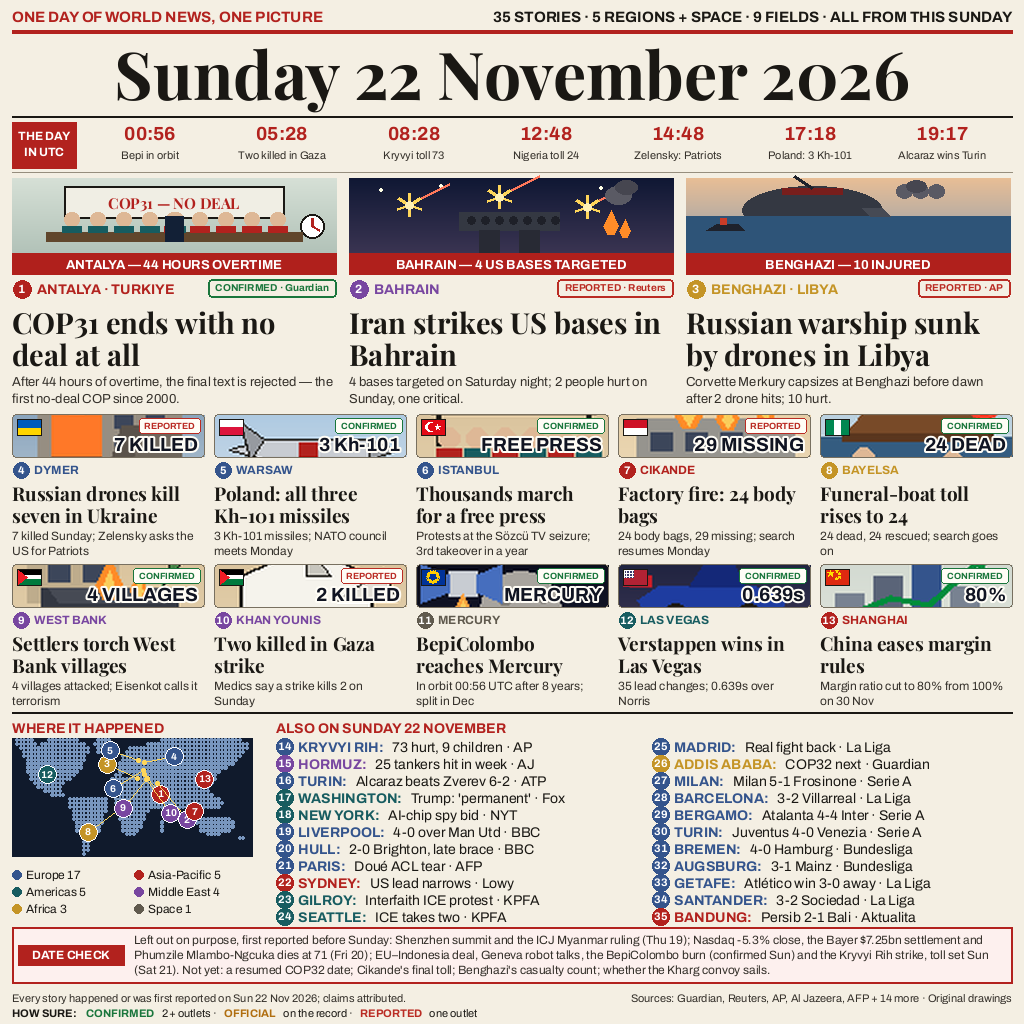
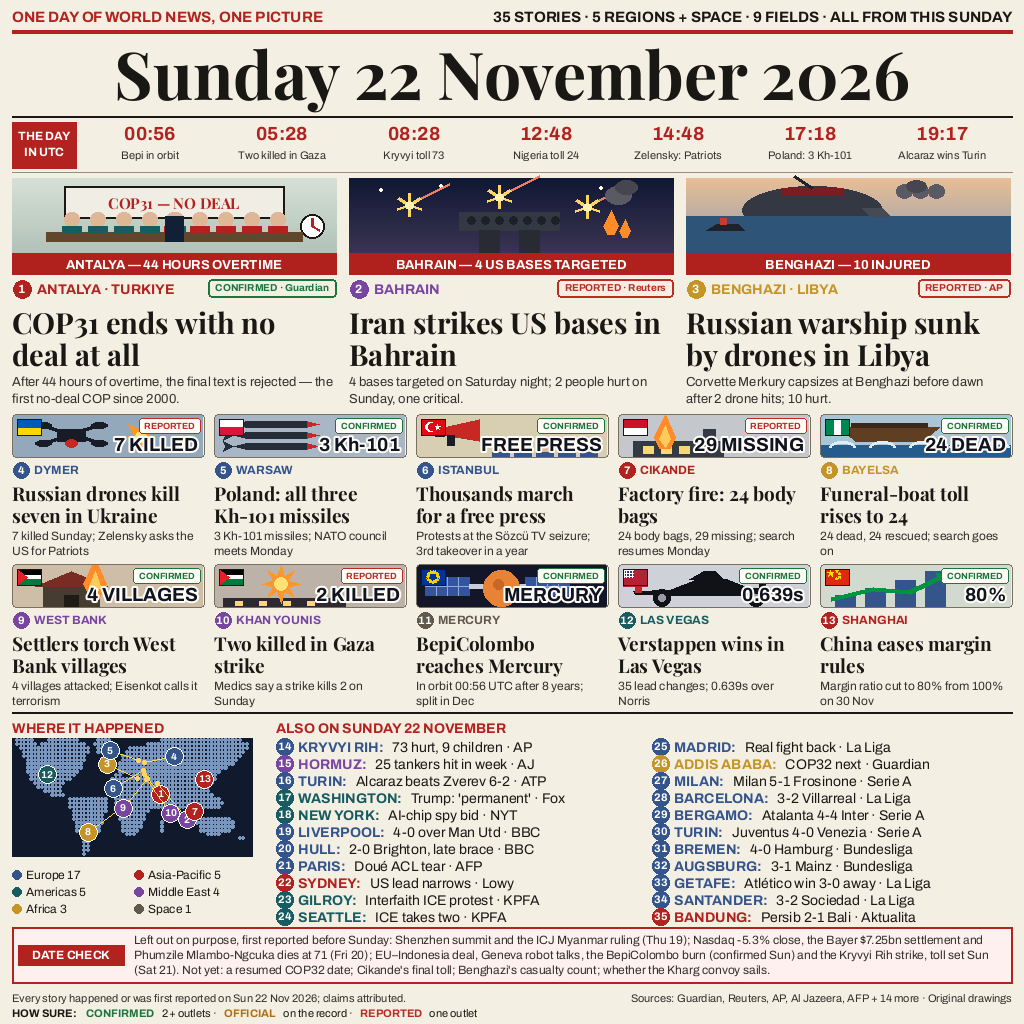
Card strips redrawn as single dominant pictograms at strip scale (glance-test verified)

diff --git a/draw.py b/draw.py
@@ -757,6 +757,168 @@ def tally_bar(d, y, counts, total, x0=76, x1=560, hgt=13):
     return y + hgt
 
 
+# ------------------------------------------------- strip pictograms (v7)
+# One dominant symbol per card, drawn AT strip size (190x42): big simple
+# shapes, max 2-3 elements, high contrast. A reader who has not seen the
+# headline should be able to guess the topic from the strip alone.
+
+def _flame(d, cx, cy, s, outer=(232, 110, 30), inner=(250, 196, 60)):
+    d.polygon([(cx, cy - s), (cx + s * 0.62, cy + s * 0.35),
+               (cx + s * 0.3, cy + s * 0.85), (cx - s * 0.3, cy + s * 0.85),
+               (cx - s * 0.62, cy + s * 0.35)], fill=outer)
+    d.polygon([(cx, cy - s * 0.45), (cx + s * 0.34, cy + s * 0.3),
+               (cx + s * 0.16, cy + s * 0.8), (cx - s * 0.16, cy + s * 0.8),
+               (cx - s * 0.34, cy + s * 0.3)], fill=inner)
+
+
+def _burst(d, cx, cy, r, col=(255, 150, 40), core=(255, 226, 120)):
+    import math
+    pts = []
+    for k in range(16):
+        ang = math.pi * k / 8
+        rr = r if k % 2 == 0 else r * 0.45
+        pts.append((cx + rr * math.cos(ang), cy + rr * math.sin(ang)))
+    d.polygon(pts, fill=col)
+    d.ellipse([cx - r * 0.32, cy - r * 0.32, cx + r * 0.32, cy + r * 0.32],
+              fill=core)
+
+
+def art_dymer(d, x, y, w, h):
+    d.rectangle([x, y, x + w, y + h], fill=(148, 168, 188))
+    # one big quadcopter drone, left-centre
+    ink = (24, 28, 38)
+    for (rx, ry) in ((x + 22, y + 7), (x + 78, y + 7), (x + 22, y + 25),
+                     (x + 78, y + 25)):
+        d.line([rx + 8, ry + 3, x + 58, y + 19], fill=ink, width=4)
+        d.ellipse([rx, ry, rx + 16, ry + 6], fill=ink)
+    d.rectangle([x + 44, y + 14, x + 72, y + 26], fill=ink)
+    d.ellipse([x + 52, y + 24, x + 64, y + 32], fill=(200, 40, 36))
+    _burst(d, x + 128, y + 22, 17)
+
+
+def art_warsaw(d, x, y, w, h):
+    d.rectangle([x, y, x + w, y + h], fill=(168, 182, 198))
+    # THREE big missiles in a row -- the count is the story
+    for j, my in enumerate((6, 17, 28)):
+        d.polygon([(x + 18, y + my + 3), (x + 30, y + my), (x + 92, y + my),
+                   (x + 104, y + my + 3), (x + 92, y + my + 6),
+                   (x + 30, y + my + 6)], fill=(38, 44, 56))
+        d.polygon([(x + 92, y + my), (x + 104, y + my + 3),
+                   (x + 92, y + my + 6)], fill=(200, 40, 36))
+        d.polygon([(x + 18, y + my + 3), (x + 8, y + my - 2),
+                   (x + 10, y + my + 3), (x + 8, y + my + 8)],
+                  fill=(38, 44, 56))
+
+
+def art_istanbul(d, x, y, w, h):
+    d.rectangle([x, y, x + w, y + h], fill=(216, 206, 178))
+    # big megaphone + a row of big crowd heads
+    d.polygon([(x + 26, y + 12), (x + 62, y + 4), (x + 62, y + 26),
+               (x + 26, y + 20)], fill=(200, 40, 36))
+    d.rectangle([x + 18, y + 11, x + 27, y + 21], fill=(24, 28, 38))
+    d.rectangle([x + 30, y + 20, x + 37, y + 30], fill=(24, 28, 38))
+    for hx in (76, 98, 120, 142, 164):
+        d.ellipse([x + hx, y + 24, x + hx + 15, y + 39],
+                  fill=(222, 184, 150), outline=(24, 28, 38), width=1)
+        d.rectangle([x + hx - 1, y + 37, x + hx + 16, y + 42],
+                    fill=(52, 84, 140))
+
+
+def art_cikande(d, x, y, w, h):
+    d.rectangle([x, y, x + w, y + h], fill=(196, 200, 204))
+    # one simple factory + a BIG flame on top
+    d.rectangle([x + 14, y + 26, x + 104, y + 42], fill=(52, 58, 68))
+    d.rectangle([x + 84, y + 14, x + 96, y + 42], fill=(52, 58, 68))
+    for wx in (24, 42, 60):
+        d.rectangle([x + wx, y + 31, x + wx + 10, y + 38],
+                    fill=(250, 214, 120))
+    _flame(d, x + 46, y + 16, 17)
+
+
+def art_bayelsa(d, x, y, w, h):
+    d.rectangle([x, y, x + w, y + h], fill=(170, 198, 214))
+    # one big capsized hull over waves
+    d.polygon([(x + 18, y + 12), (x + 118, y + 12), (x + 102, y + 26),
+               (x + 34, y + 26)], fill=(96, 62, 34))
+    d.rectangle([x + 30, y + 8, x + 106, y + 12], fill=(60, 40, 22))
+    d.rectangle([x, y + 30, x + w, y + h], fill=(38, 92, 140))
+    for wx in (8, 48, 88, 128, 162):
+        d.arc([x + wx, y + 26, x + wx + 26, y + 38], 180, 360,
+              fill=(220, 238, 250), width=3)
+
+
+def art_westbank(d, x, y, w, h):
+    d.rectangle([x, y, x + w, y + h], fill=(206, 190, 168))
+    # one big house + a BIG flame (a village home burning)
+    d.rectangle([x + 30, y + 20, x + 86, y + 42], fill=(70, 60, 50))
+    d.polygon([(x + 22, y + 21), (x + 58, y + 6), (x + 94, y + 21)],
+              fill=(120, 44, 36))
+    d.rectangle([x + 51, y + 30, x + 65, y + 42], fill=(30, 26, 22))
+    _flame(d, x + 82, y + 12, 19)
+
+
+def art_gaza(d, x, y, w, h):
+    d.rectangle([x, y, x + w, y + h], fill=(188, 178, 168))
+    # ONE huge explosion over a low building silhouette
+    d.rectangle([x + 8, y + 33, x + 130, y + 42], fill=(44, 42, 46))
+    for wx in (20, 44, 68, 92):
+        d.rectangle([x + wx, y + 36, x + wx + 7, y + 40],
+                    fill=(250, 214, 120))
+    _burst(d, x + 66, y + 19, 19)
+
+
+def art_mercury(d, x, y, w, h):
+    d.rectangle([x, y, x + w, y + h], fill=(18, 22, 40))
+    # probe: blue panel wings + the big orange planet (kept, enlarged)
+    for px0 in (8, 108):
+        d.rectangle([x + px0, y + 12, x + px0 + 44, y + 30],
+                    fill=(52, 84, 160))
+        for gx in range(1, 4):
+            d.line([x + px0 + gx * 11, y + 12, x + px0 + gx * 11,
+                    y + 30], fill=(140, 170, 220), width=1)
+        d.line([x + px0, y + 21, x + px0 + 44, y + 21],
+               fill=(140, 170, 220), width=1)
+    d.rectangle([x + 52, y + 19, x + 108, y + 23], fill=(200, 204, 214))
+    d.ellipse([x + 66, y + 5, x + 102, y + 41], fill=(232, 130, 52))
+    d.ellipse([x + 76, y + 14, x + 86, y + 24], fill=(198, 104, 40))
+
+
+def art_lasvegas(d, x, y, w, h):
+    d.rectangle([x, y, x + w, y + h], fill=(206, 210, 216))
+    # one big F1 car in side profile -- unmistakable
+    ink = (16, 18, 24)
+    d.polygon([(x + 14, y + 26), (x + 52, y + 24), (x + 78, y + 14),
+               (x + 108, y + 14), (x + 128, y + 22), (x + 158, y + 24),
+               (x + 162, y + 28), (x + 128, y + 30), (x + 46, y + 30),
+               (x + 16, y + 29)], fill=ink)
+    d.rectangle([x + 140, y + 6, x + 146, y + 24], fill=ink)
+    d.rectangle([x + 128, y + 6, x + 160, y + 10], fill=(200, 40, 36))
+    d.rectangle([x + 16, y + 16, x + 22, y + 27], fill=(200, 40, 36))
+    d.polygon([(x + 70, y + 14), (x + 84, y + 6), (x + 96, y + 6),
+               (x + 104, y + 14)], fill=ink)
+    for wx in (34, 128):
+        d.ellipse([x + wx, y + 24, x + wx + 17, y + 41], fill=ink)
+        d.ellipse([x + wx + 5, y + 29, x + wx + 12, y + 36],
+                  fill=(150, 156, 166))
+
+
+def art_shanghai(d, x, y, w, h):
+    d.rectangle([x, y, x + w, y + h], fill=(210, 218, 208))
+    # kept diagram, thicker: rising bars + a fat green arrow
+    for j, bh in enumerate((12, 19, 27, 36)):
+        bx = x + 14 + j * 30
+        d.rectangle([bx, y + 42 - bh, bx + 20, y + 42], fill=(52, 84, 140))
+    d.line([x + 10, y + 34, x + 52, y + 24, x + 88, y + 27, x + 128, y + 8],
+           fill=(0, 148, 64), width=5)
+    d.polygon([(x + 128, y + 8), (x + 114, y + 7), (x + 122, y + 19)],
+              fill=(0, 148, 64))
+
+
+STRIP_ART = [art_dymer, art_warsaw, art_istanbul, art_cikande, art_bayelsa,
+             art_westbank, art_gaza, art_mercury, art_lasvegas,
+             art_shanghai]
+
+
 def main():
     stories = HEROES + CARDS + ALSO
     total = len(stories)
@@ -871,18 +1033,10 @@ def main():
         place, region, field, head, deck0, src, sure = card
         x = MX + (i % 5) * (cw + 10)
         yy0 = cy + (i // 5) * (chh + 8)
-        snap = (len(OBSTACLES), len(H_CHECKS), len(OVERFLOWS))
-        tmp = Image.new("RGB", (110, 86), PAPER)
+        tmp = Image.new("RGB", (190, 42), PAPER)
         td = ImageDraw.Draw(tmp)
-        TAG[0] = ("card", i)
-        CARD_SCENES[i](td, 0, 0, 110, 86)
-        TAG[0] = None
-        del OBSTACLES[snap[0]:]
-        del H_CHECKS[snap[1]:]
-        del OVERFLOWS[snap[2]:]
-        big_img = tmp.resize((192, 150), Image.LANCZOS)
-        img.paste(big_img.crop((0, CROPS[i], 192, CROPS[i] + 42)),
-                  (x + 1, yy0 + 1))
+        STRIP_ART[i](td, 0, 0, 190, 42)
+        img.paste(tmp, (x + 1, yy0 + 1))
         d.rounded_rectangle([x, yy0, x + cw, yy0 + 43], radius=4,
                             outline=(120, 112, 96), width=1)
         flag(d, CARD_FLAGS[i], x + 5, yy0 + 5, w=24, h=16)

diff --git a/README.md b/README.md
@@ -24,8 +24,8 @@ The layout clones, zone by zone, the measured template of edition
 21's final winner (superskie): eyebrow with computed counts and a red
 rule, giant Playfair date, a "THE DAY IN UTC" timeline bar, hero
 panels with an in-scene red statement band, numbered kickers and
-status chips, compact 5-across x 2-row cards (scene strip, flag,
-status chip, big overlay, headline, merged deck), a left map with
+status chips, compact 5-across x 2-row cards (single-pictogram strip drawn
+at strip scale, flag, status chip, big overlay, headline, deck), a left map with
 region-coloured pins and a counted dot legend beside a two-column
 ALSO rail, a red-framed DATE CHECK box with tab, and a footer with
 the HOW SURE legend and sources line. The story set is locked at
